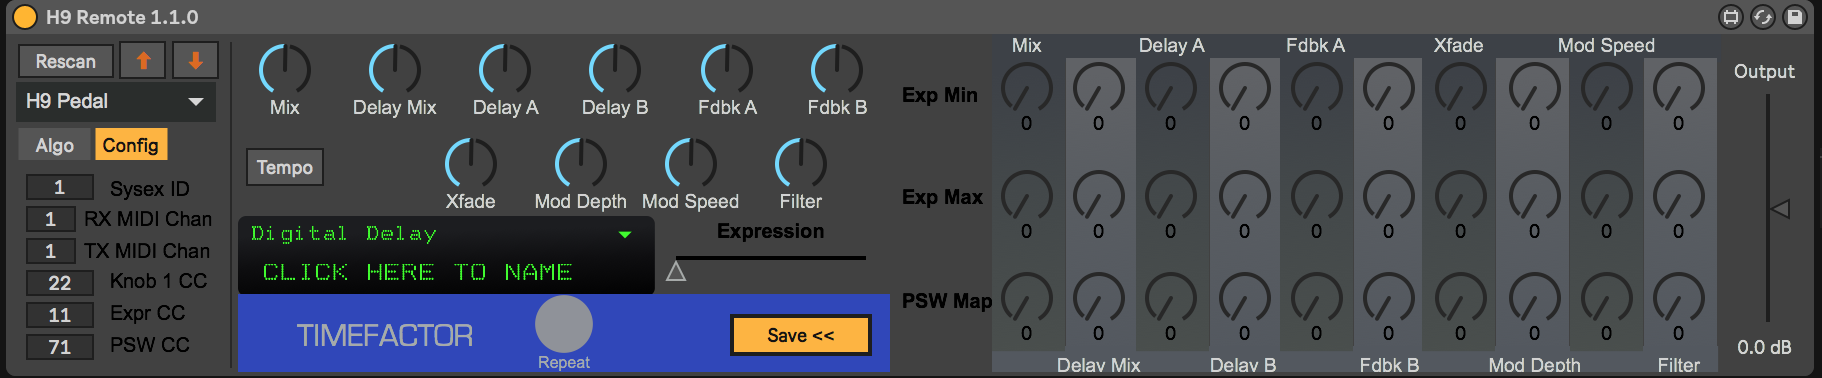
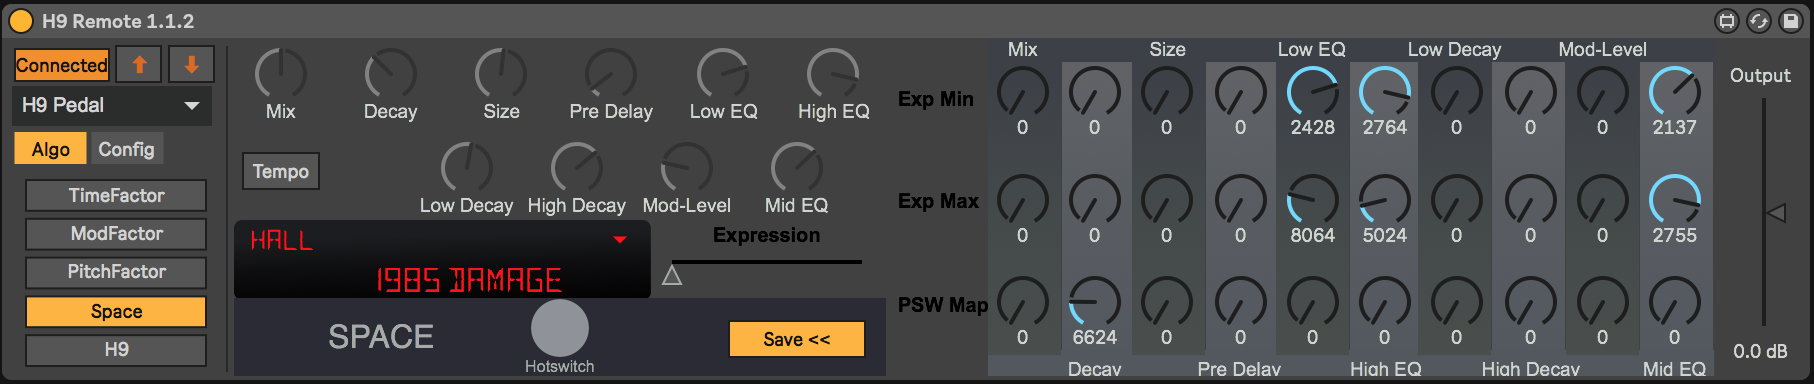
Update images for 1.1.2

diff --git a/README.md b/README.md
@@ -23,7 +23,7 @@ Basic features include:
 * Supports Ableton M4L presets, so can store a completely separate set of presets than what is on the device.
 * Saves the device configuration in the preset - no accidentally configuring the wrong H9 if you have multiple pedals.
 * Receives and transmits knob, expression, and hotswitch changes from the pedal, for track automation recording, live performance, etc.
-* Supports 14-bit precision MIDI CC values for primary knobs (currently using only 10 bits of total precision though)
+* Supports 14-bit precision MIDI CC values for primary knobs (currently using only 10 bits of total precision though).
 * Supports Push and Live MIDI mapping to extend the controls for your H9 into the physical realm.
 * Remembers which H9 each instance of the plugin was connected to, and restores the saved configuration from your Live set on open - ensuring your project re-opens with the right effects on the right pedal automatically, even if you didn't save the pedal configs as a preset.
 * Allows you to send and automate expression controls even if you don't have an expression pedal connected.
